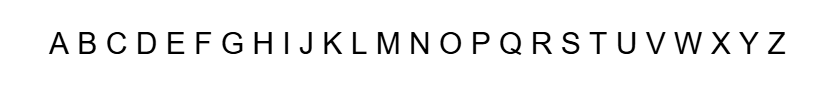
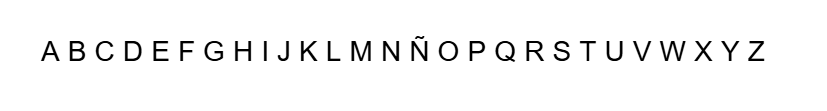
Add files via upload
IMPORTANTE: El script de segmentTopAndBot solo va a servir con imagenes de una fila porque lo hice para sacar el abecedario más facil, para luego poder usarlo con varias filas o texto tendriamos que añadir un for exactamente igual que el que hice con las columnas. Es una tonteria pero yo aviso

Changed region(s): [[0.0302, 0.3093, 0.9674, 0.5567]]

diff --git a/segmentTopAndBot.m b/segmentTopAndBot.m
@@ -1,26 +1,55 @@
 function Im_horizontal = segmentTopAndBot(Im_bin)
-%Calculamos el promedio de cada fila, dejando un vector columna con el
-%promedio de cada fila.
-v_media_filas = mean(Im_bin,2);
+    % 1. CREAR IMAGEN AUXILIAR DILATADA (Para conectar tildes y puntos)
+    % Usamos un rectángulo vertical de 5x1 para cerrar el hueco de la ñ
+    se_vertical = strel('rectangle', [5, 1]); 
+    Im_dilatada = imdilate(Im_bin, se_vertical);
 
-%Ahora haremos un umbral para eliminar ruido o pequeñas variaciones, como?
-%Pues te aseguras de que el umbral sea proporcional a la cantidad de texto que hay
-%Si el pico más alto es 100 píxeles, cualquier fila que promedie menos de 15 se ignora por ser ruido
-umbral = 0.15*max(v_media_filas);
+    % 2. PROYECCIÓN PARA FILAS (Detección sobre la dilatada)
+    v_media_filas = mean(Im_dilatada, 2);
+    umbral_fila = 0.05 * max(v_media_filas);
+    v_filas_buenas = v_media_filas > umbral_fila;
+    
+    cambios_filas = diff([0; v_filas_buenas; 0]);
+    filas_inicio = find(cambios_filas == 1); 
+    filas_fin = find(cambios_filas == -1) - 1;
 
-%Usamos el umbral y dejamos un vector de solo 1 y 0.
-v_filas_buenas = v_media_filas > umbral;
-cambios = diff([0; v_filas_buenas; 0]);
+    % Recorte con margen de 1 píxel (usando la imagen ORIGINAL limpia)
+    y1 = max(1, filas_inicio(1) - 1); 
+    y2 = min(size(Im_bin, 1), filas_fin(end) + 1);
+    Im_horizontal = Im_bin(y1:y2, :);
 
-filas_inicio = find(cambios == 1); 
-y1 = filas_inicio(1); % Cogemos el primer inicio detectado
+    % 3. PROYECCIÓN PARA COLUMNAS (Letras)
+    % Dilatamos también horizontalmente un poco para asegurar que las letras son bloques
+    Im_horiz_dilatada = imdilate(Im_horizontal, strel('disk', 1));
+    v_media_columnas = mean(Im_horiz_dilatada, 1);
+    
+    umbral_columna = 0.05 * max(v_media_columnas);
+    v_columnas_buenas = v_media_columnas > umbral_columna;
+    
+    cambios_columnas = diff([0, v_columnas_buenas, 0]);
+    letras_inicio = find(cambios_columnas == 1);
+    letras_fin = find(cambios_columnas == -1) - 1;
 
-filas_fin = find(cambios == -1) - 1;
-y2 = filas_fin(end); % Cogemos el último final detectado
+    % 4. EXTRACCIÓN DE CARACTERES
+    num_letras = length(letras_inicio);
+    caracteres = cell(1, num_letras); 
+    
+    for i = 1:num_letras
+        x1 = max(1, letras_inicio(i) - 1); 
+        x2 = min(size(Im_horizontal, 2), letras_fin(i) + 1);
+        caracteres{i} = Im_horizontal(:, x1:x2); 
+    end
 
-Im_horizontal = Im_bin(y1:y2,:);
+    % --- VISUALIZACIÓN EN CUADRÍCULA ---
+    figure('Name', 'Segmentación de Caracteres');
+    
+    % Decidimos el número de columnas de la cuadrícula (ej. 8 letras por fila)
+    cols_grid = 8; 
+    filas_grid = ceil(num_letras / cols_grid);
 
-figure; 
-plot(v_filas_buenas); 
-title('Proyección Vertical (Detección de Filas)');
+    for i = 1:num_letras
+        subplot(filas_grid, cols_grid, i);
+        imshow(caracteres{i});
+        title(['#', num2str(i)]);
+    end
 end

diff --git a/im2bin.m b/im2bin.m
@@ -2,13 +2,8 @@ function IMabc_binaria = im2bin(IMabc)
 %Pasamos a double para facilitar calculos (del 0 al 1)
 im_d = im2double(IMabc); 
 
-%Separamos sus tres componentes red, green y blue
-R = im_d(:,:,1);
-G = im_d(:,:,2);
-B = im_d(:,:,3);
-
 %Usando ciertos parámetros hacemos una suma ponderada
-IMabc_gris = 0.30*R + 0.59*G + 0.11*B;
+IMabc_gris = im2gray(im_d);
 
 %La función graythresh utiliza el método de Otsu para encontrar un valor
 %numérico específico (el umbral) que permita separar los píxeles de una 

diff --git a/Script_ejecucion.m b/Script_ejecucion.m
@@ -1,6 +1,7 @@
 IMabc = imread("Abecedario.png"); 
 IMabc_Binario = im2bin(IMabc); %Tarea 1 (Pasarlo a binario)
-Im_horizontal_bin = segmentTopAndBot(IMabc_Binario); %Le quitamos todo lo que este por encima y por debajo de la fila de letras
+Im_horizontal_bin = segmentTopAndBot(IMabc_Binario);
+%Le quitamos todo lo que este por encima y por debajo de la fila de letras
 
 
 
